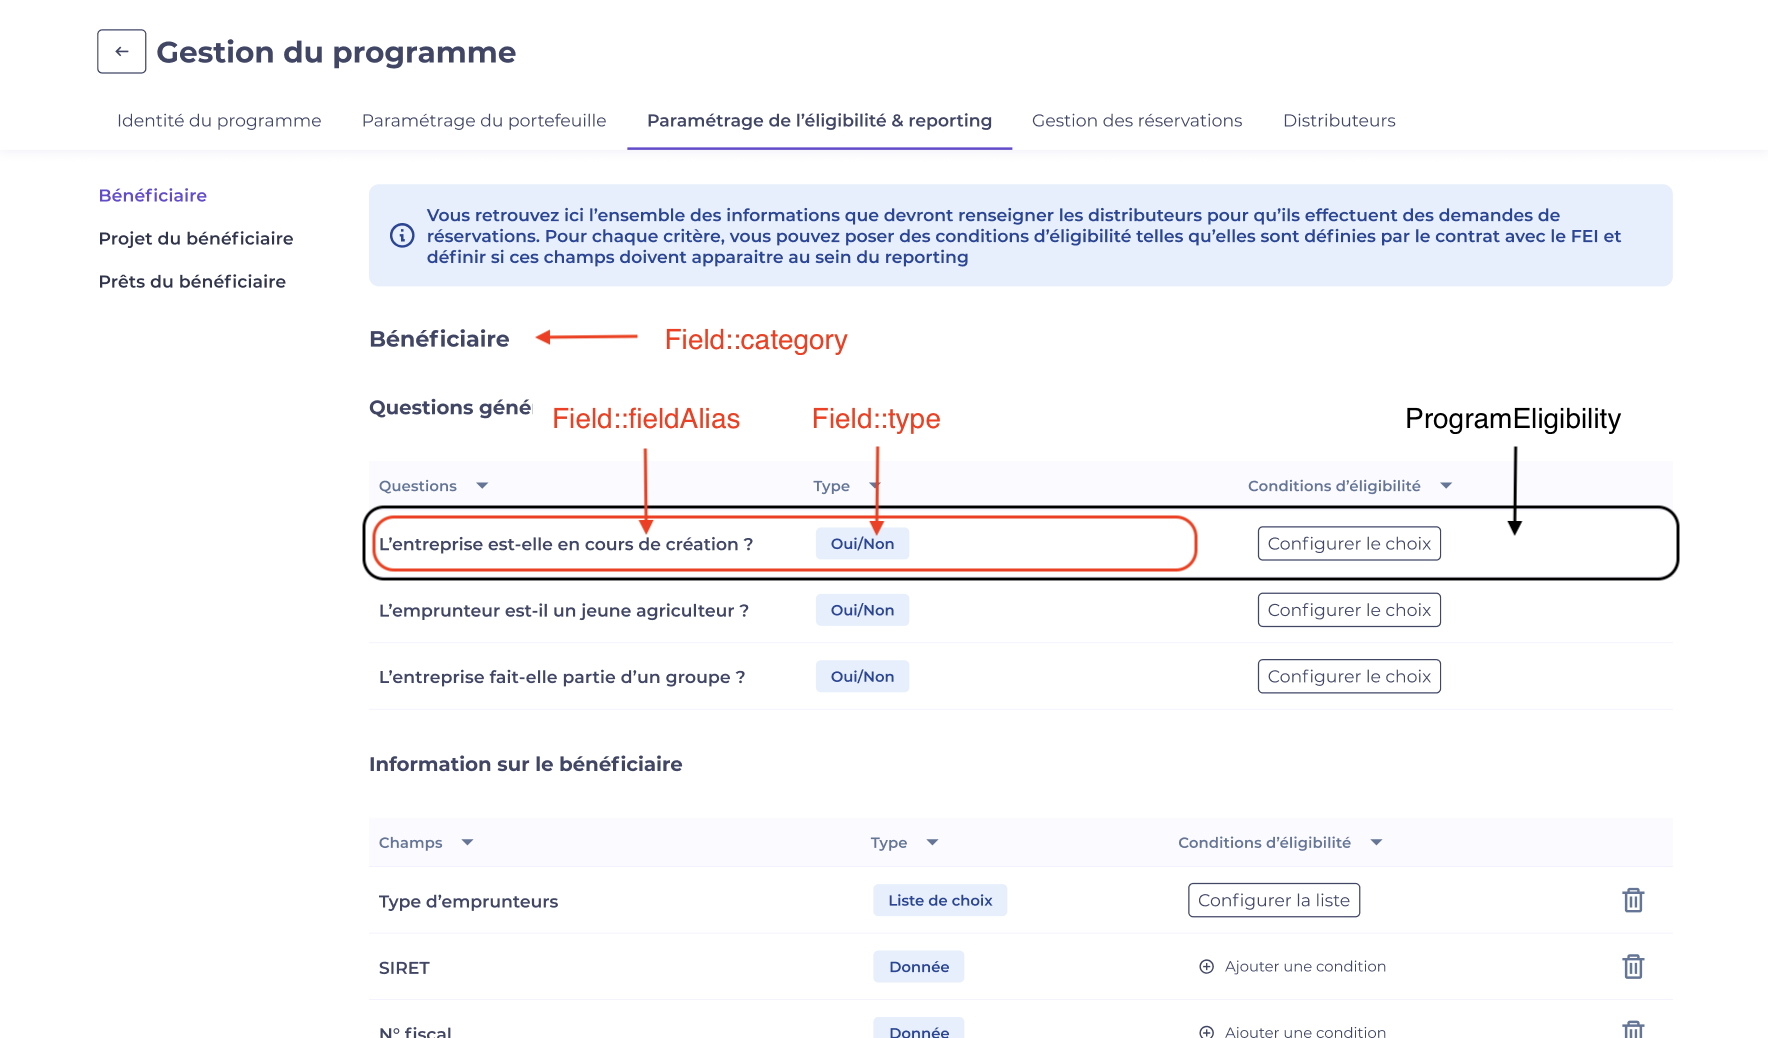
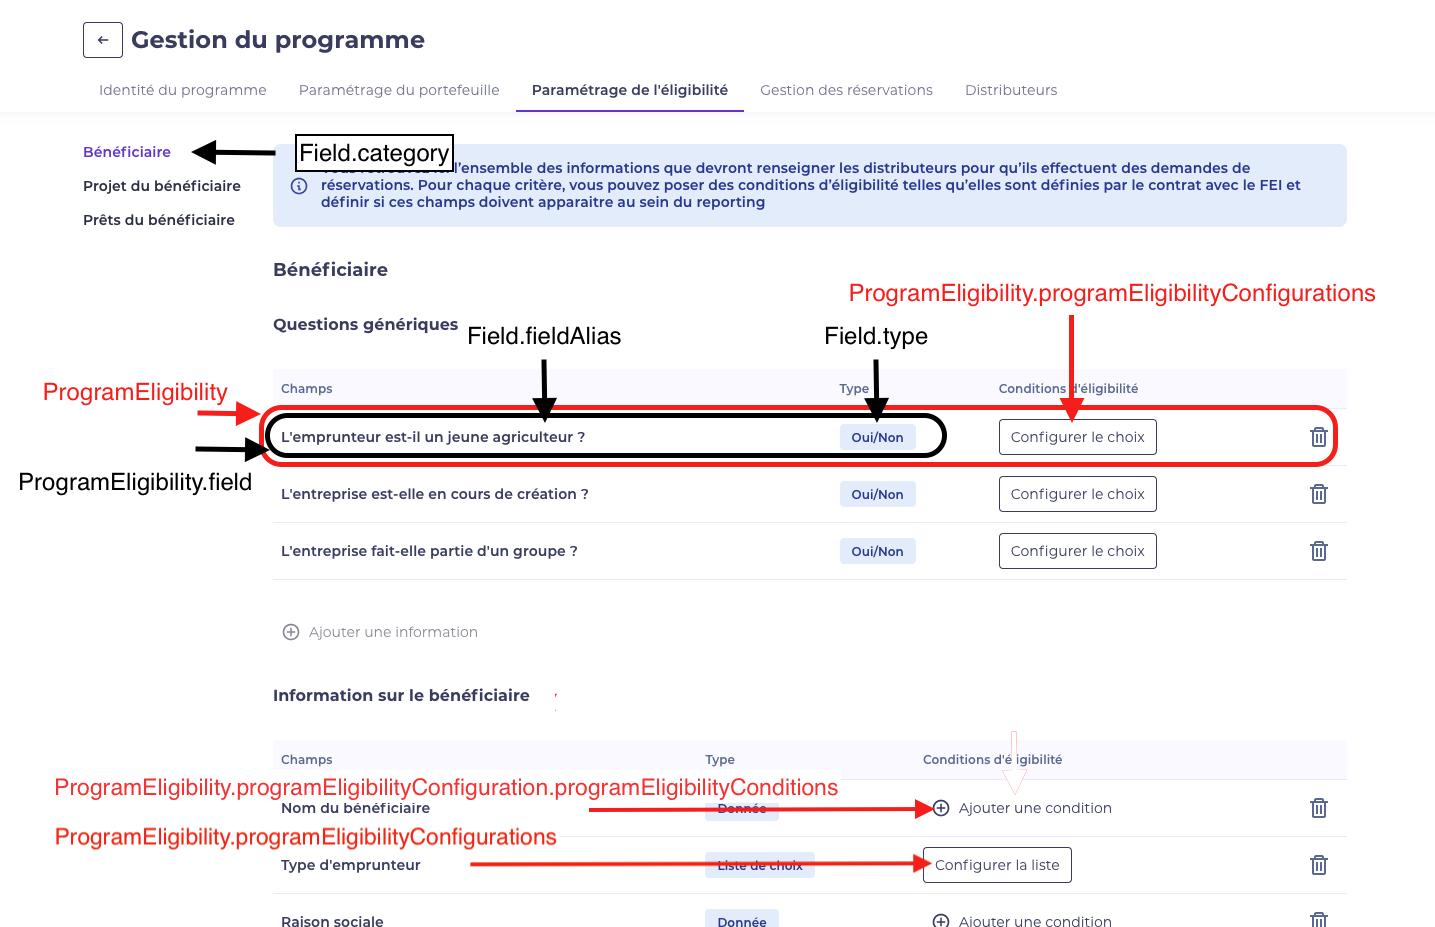
docs(fei): CALS-4944 update eligibility technical doc

diff --git a/doc/technical/creditguaranty/eligibility.rst b/doc/technical/creditguaranty/eligibility.rst
@@ -5,79 +5,10 @@ Eligibility
 Introduction
 ============
 
-While creating a program, CASA configures the conditions on some selected fields that distributors must fill in when they make the reservation requests.
-That is called the eligibility.
-For each criteria, we can add eligibility configurations, conditions, and define which one is eligible.
-
-
-Composition
-============
-
-Each eligibility line is saved in ProgramEligibility entity, containing:
- - Field
- - Configurations
- - Conditions
-
-Field
--------------
-Defined beforehand and globally, they are saved in ``Field`` entity.
-For each program, CASA configures eligibility with a fields list.
-
-Possible categories:
- - profile
- - project
- - loan
-
-The categories are used to indicate the context of a field and to group the field when we display them in the front-end.
-
-Possible field types:
- - other : value type
- - bool
- - list
-
-List typed values are saved in ProgramChoiceOption.
-
-There are 2 levels for list type fields:
- - user-defined list (borrower type for example) : Each option is created / defined by the user when configuring the eligibility.
- - pre-defined list (legal form for example) : pre-defined items are saved in ``Field::predefinedItems``. Each items are created (in ProgramChoiceOption) when the project is created.
-
-Illustration:
-
-.. image:: ../../assets/images/creditguaranty/cg-eligibility.png
-    :align: center
-    :alt: eligibility
-
-Configurations
--------------
-For each eligibility field of bool type and list type, we can define for each "option" whether it's eligible by adding a ``ProgramEligibilityConfiguration``.
-An eligibility field of value type has always a configuration of which the eligible is always true. It means that the field is required (any value is eligible).
-
-Illustration for eligibility field of bool type :
-
-.. image:: ../../assets/images/creditguaranty/cg-eligibility-configuration-boolean.png
-    :align: center
-    :alt: eligibility configuration boolean
-
-Illustration for eligibility field of list type :
-
-.. image:: ../../assets/images/creditguaranty/cg-eligibility-configuration-list.png
-    :align: center
-    :alt: eligibility configuration list
-
-Conditions
--------------
-We can add conditions for each eligibility configuration.
-They saved in ``ProgramEligibilityCondition`` entity.
-
-There are 2 condition types : rate (screenshot 1 below) - value (screenshot 2 below)
-
-.. image:: ../../assets/images/creditguaranty/cg-eligibility-condition-value.png
-    :align: center
-    :alt: eligibility condition value
-
-.. image:: ../../assets/images/creditguaranty/cg-eligibility-condition-rate.png
-    :align: center
-    :alt: eligibility condition rate
+In a program management, CASA configures eligibility related to selected fields
+that distributors must fill in when they make the reservation requests.
+For each eligibility criteria, we can have configurations, some conditions for a configuration,
+and define which one is eligible.
 
 
 Relational schema
@@ -88,12 +19,109 @@ Relational schema
     :alt: eligibility db schema
 
 
+Composition
+============
+
+Each eligibility line is saved in ProgramEligibility entity, containing:
+ - Field
+ - Configurations
+ - Conditions
+
+Illustration:
+
+.. image:: ../../assets/images/creditguaranty/cg-eligibility.png
+    :align: left
+    :alt: eligibility
+
+Field
+-------------
+Defined beforehand and globally, they are saved in ``Field`` entity.
+In a program, CASA configures eligibility in selecting fields that he wants for distributors to fill in in a reservation request.
+
+Possible tags (used for reporting):
+ - eligibility (the configured fields in a program eligibility)
+ - info
+ - imported
+ - calcul
+
+Possible categories (used to indicate the section of a field and to group them when we display them in the front-end side):
+ - profile (corresponding to borrower tab)
+ - project (corresponding to project tab)
+ - loan (corresponding to financing objects tab)
+
+Possible field types:
+ - other (for int, string, date, money values)
+ - bool
+ - list (which options values are saved in ProgramChoiceOption)
+    - user-defined list (``borrowerType`` for example) : Each option is created / defined by the user when configuring the eligibility.
+    - pre-defined list (``legalForm`` for example) : pre-defined items are saved in ``Field::predefinedItems`` and each items are created in ``ProgramChoiceOption``.
+    - pre-defined list special (``companyNafCode`` or ``loanNafCode``) : pre-defined items are saved in a specific table ``NafNace``.
+
+The property ``comparable`` is used to list fields that can be in a ``ProgramEligibilityCondition``.
+
+To know which object property is related to which field, there are some properties in a ``Field`` model :
+ - objectClass (only used in back-end side for eligibility checking of a reservation)
+ - reservationPropertyName (corresponding to the property target from a reservation object)
+ - propertyPath (corresponding to the property target from the reservationPropertyName if it exists)
+
+Configurations
+-------------
+An eligibility configured in a program management must have at least one configuration.
+
+An configuration must be created for each "value" of a field can have :
+ - For other type field :
+    - there must be only one configuration because there is only one possible value (i.e. string, int, date, money).
+    - the configuration eligible value must be setted to ``true`` by default because if we configure a field of type other, it means the field must be filled in to have the reservation eligible.
+    - the ``value`` and ``programChoiceOption`` properties of ``ProgramEligibilityConfiguration`` must be setted to NULL.
+ - For bool type field :
+    - there must be only two configurations (yes or no).
+    - we can define which one is eligible depending on user (it is both setted eligible by default).
+    - the ``value`` must be setted to ``1`` (true) or ``0`` (false), and ``programChoiceOption`` to NULL.
+ - For list type field :
+    - there must be one configuration by option configured.
+    - the ``value`` must be setted to NULL, and ``programChoiceOption`` to the ``ProgramChoiceOption`` related.
+
+Illustration of eligibility configuration for bool type field :
+
+.. image:: ../../assets/images/creditguaranty/cg-eligibility-configuration-bool.png
+    :align: left
+    :alt: eligibility configuration bool
+
+Illustration of eligibility configuration for list type field :
+
+.. image:: ../../assets/images/creditguaranty/cg-eligibility-configuration-list.png
+    :align: left
+    :alt: eligibility configuration list
+
+Conditions
+-------------
+Each configuration can have one or more conditions for a reservation to be eligible, saved in ``ProgramEligibilityCondition`` entity.
+For explanation, when we add a condition in a configuration of a field A, which means that if the field A
+
+The properties ``leftOperandField``, ``valueType`` and ``operation`` are required whatever the condition type.
+
+There are 4 condition types :
+ - Value type
+    - it is for fields of type other with money, month or person unit.
+    - the ``rightOperandField`` must be setted to NULL, and the ``value`` for the value to compare (decimal or amount).
+ - Rate type
+    - it is for fields of type other with money, month or person unit.
+    - it is used to compare a field A value to another field B (of the same field type) value with a rate value.
+    - the ``rightOperandField`` must then be setted, and also the ``value`` to multiply with the ``rightOperandField`` value to compare (decimal or amount) with the ``leftOperandField`` value.
+ - Bool type
+    - it is for fields of type bool.
+    - the ``rightOperandField`` must be setted to NULL, and the ``value`` (1 or 0) for the value to compare.
+ - List type
+    - it is for fields of type list.
+    - the ``rightOperandField`` and ``value`` values must be setted to NULL, and the ``programChoiceOptions`` collection must be contain at least one element.
+
+
 Validation
 ============
-Once CASA configured eligibility, distributors can make reservation requests for the program.
+Once CASA configured eligibility and distribute the program, distributors can make reservation requests for the program.
 
 There are 2 validation levels:
- - after filled in a form, we check eligibility configurations and return an ineligible fields list.
- - after filled in all forms, we check eligibility configurations with conditions and return an ineligible fields list.
+ - after filled in a section of a reservation request, we check only eligibility configurations and return an ineligible fields list if it exists.
+ - in submitting a reservation resquest, we check eligibility configurations with conditions, and return an ineligible fields list if it exists.
 
-In technical part, there are an entity request ``Eligiblity``, and an endpoint that checks reservation eligibility (see ``src/CreditGuaranty/FEI/Service/EligibilityChecker.php`` file for more details).
+In the code, the endpoint is created in the ``Reservation`` resource and calls a custom controller checking the reservation eligibility.
